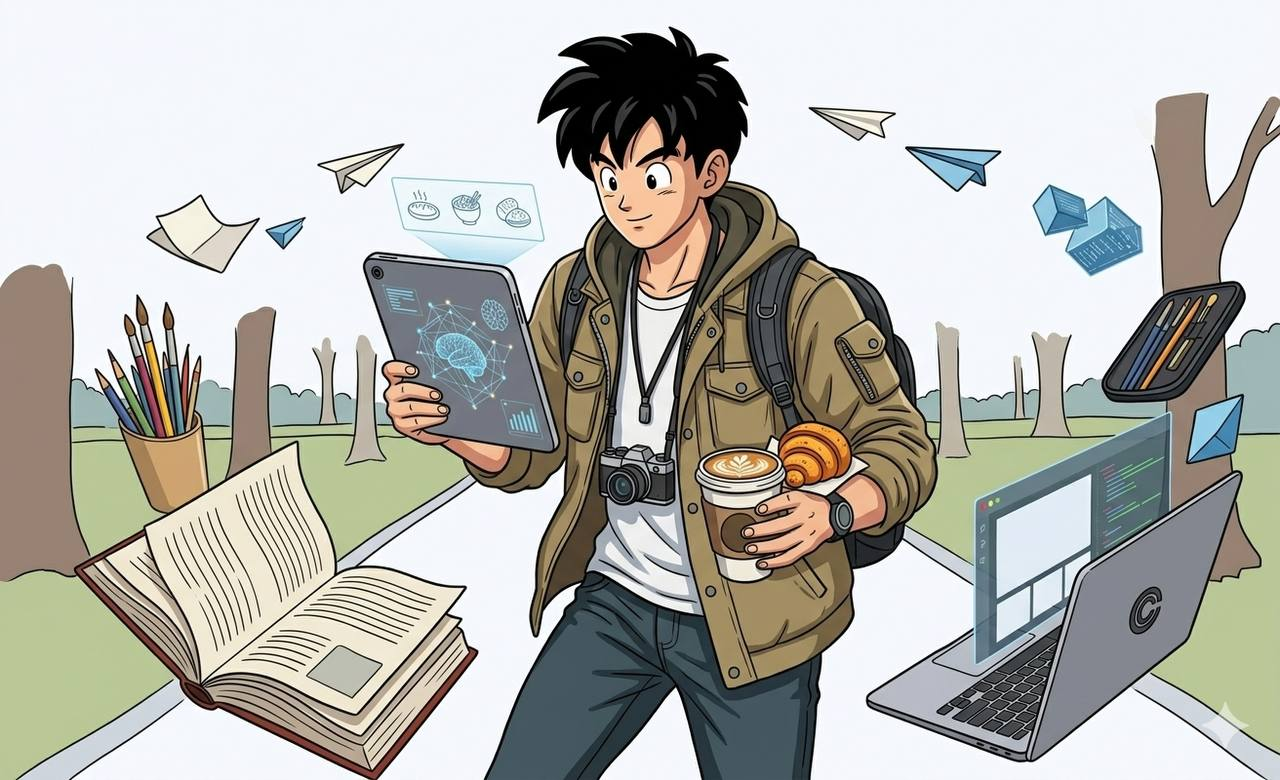
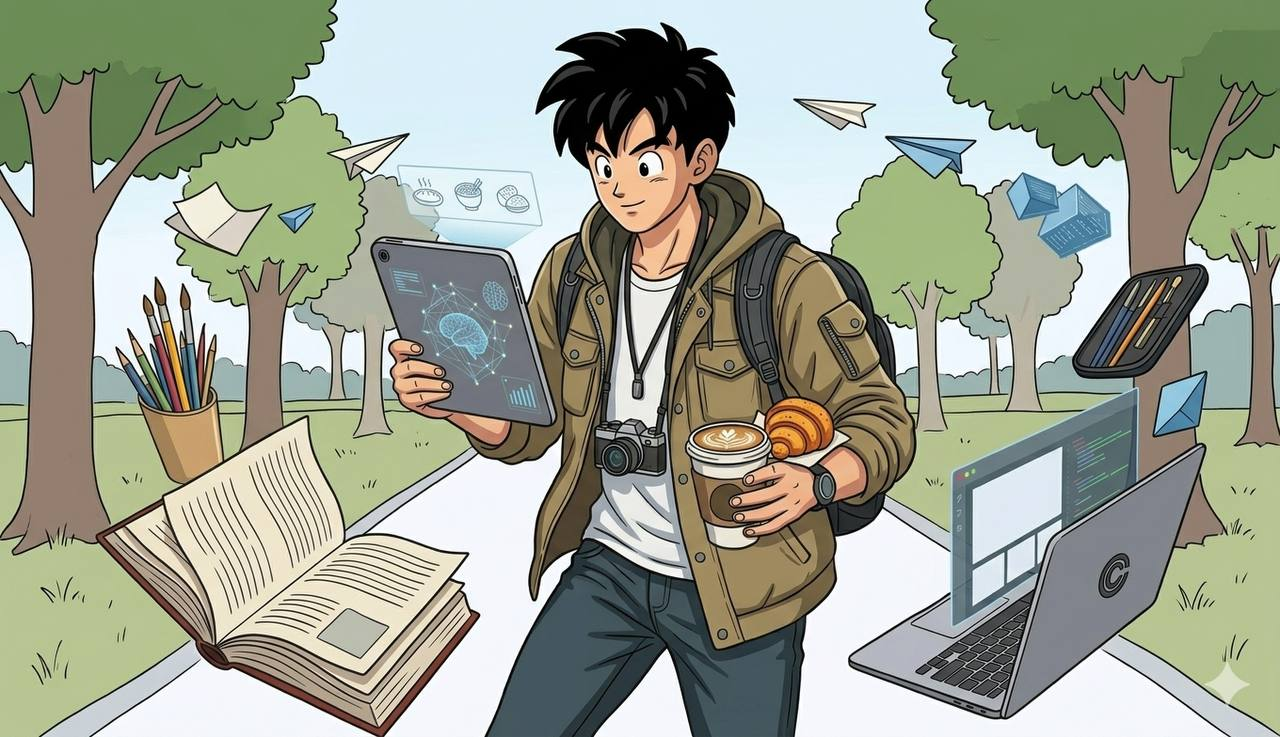
feat: enlarge homepage hero to 560x320

diff --git a/src/app/page.tsx b/src/app/page.tsx
@@ -42,12 +42,12 @@ export default function Home(){
               <CTAButtonLink href="/about" style={{background:'#4b5563'}}>About</CTAButtonLink>
             </CTAs>
           </div>
-          <div style={{ width: 'min(260px, 100%)', aspectRatio: '13 / 8', borderRadius: 12, overflow: 'hidden', flexShrink: 0, boxShadow: '0 10px 30px rgba(0,0,0,0.08)', alignSelf: 'stretch', maxWidth: 260 }}>
+          <div style={{ width: 'min(560px, 100%)', aspectRatio: '7 / 4', borderRadius: 12, overflow: 'hidden', flexShrink: 0, boxShadow: '0 10px 30px rgba(0,0,0,0.08)', alignSelf: 'stretch', maxWidth: 560 }}>
             <Image
               src="/images/hero-main.jpg"
               alt="Jamie Blog hero image"
-              width={260}
-              height={160}
+              width={560}
+              height={320}
               style={{ width: '100%', height: '100%', objectFit: 'cover', display: 'block' }}
               priority
             />
